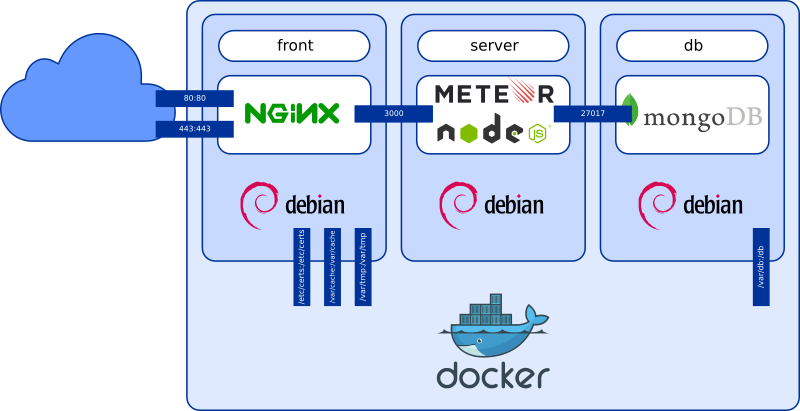
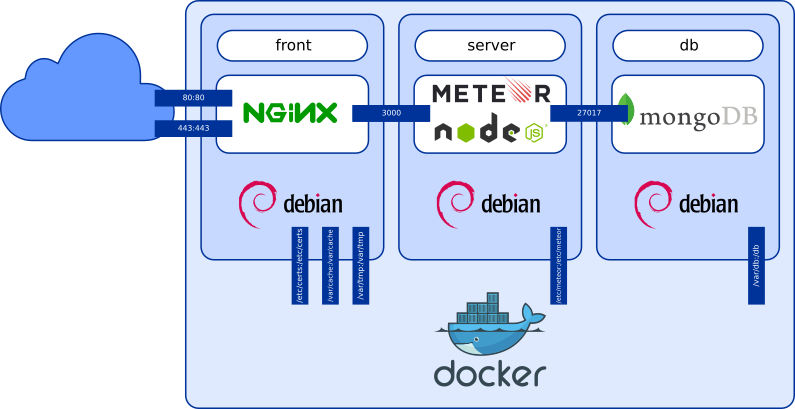
Docker architecture

diff --git a/README.md b/README.md
@@ -31,11 +31,11 @@ the complete list of versions used in this tutorial:
 
 ![Software architecture](https://raw.githubusercontent.com/PEM--/devops-tuts/master/doc/software_architecture.png)
 
-> Why Debian Jessie instead of Debian Wheezie? Simple, a 30 MB of footprint.
-  Note that we could have set this tutorial on other even smaller Linux
-  distributions for our Docker Images, like Alpine Linux. But as time of
-  this writing, other smaller distributions do not offer the package required
-  for installing Meteor.
+> Why Debian Jessie instead of Debian Wheezie? Simple, a gain of 30MB of
+  footprint. Note that we could have set this tutorial on other even smaller
+  Linux distributions for our Docker Images, like Alpine Linux. But as time of
+  this writing, these smaller distributions do not offer the package required
+  for installing Meteor (namely, MongoDB and node-fibers).
 
 ### Installing the tooling
 If you have never done it before install Homebrew and its plugin Caskroom.
@@ -105,7 +105,7 @@ end
 > I've provided 2 network configurations here. The first one is a private network
   leading to 2 virtual machines that are not accessible to your local network (
   only your local OSX). The second bridges your local OSX network driver so that
-  your container gains public access within your LAN. Note that for both of these
+  your VMs gain public access within your LAN. Note that for both of these
   network configurations, I've used static IPs.
 
 Before creating our virtual machine, we need to setup a `provisioning.sh`:
@@ -135,9 +135,9 @@ Now, we are starting our virtual hosts and declare it as a Docker Machine:
 vagrant up --no-provision
 ```
 
-Throughout this terminal, we need some environment variables, we store them
-in a `local_env.sh` file that we fill step by step and source each time we
-open a new terminal session:
+Throughout this terminal sessions, we need some environment variables.
+We store them in a `local_env.sh` file that we fill step by step and source
+each time we open a new terminal session:
 ```sh
 export HOST_IP_DEV='192.168.1.50'
 export HOST_IP_PRE='192.168.1.51'
@@ -533,9 +533,43 @@ COPY startMeteor.sh /app/startMeteor.sh
 CMD ["./startMeteor.sh"]
 ```
 
-@TODO
+Before building this Docker image, we need to prepare the
+volume on each host that receives its `settings.json` used for storing your
+secrets in Meteor:
+```sh
+ssh root@$HOST_IP_DEV "mkdir /etc/meteor"
+ssh root@$HOST_IP_PRE "mkdir /etc/meteor"
+ssh root@$HOST_IP_PROD "mkdir /etc/meteor"
+```
 
-- Settings without importing them
+Now copy your `settings.json` files on each hosts using a regular SCP. Mine
+are slightly different depending on the target where I deploy my Meteor apps.
+```sh
+# Just an exammple, adapt it to suit your needs
+scp ../app/development.json root@$HOST_IP_DEV:/etc/meteor
+scp ../app/development.json root@$HOST_IP_DEV:/etc/meteor
+scp ../app/production.json root@$HOST_IP_DEV:/etc/meteor
+```
+
+> Note that we do not include our secrets, nor in our code repository by
+  using a `.gitgignore` file, nor in our Docker Images.
+
+As you can see it in this `docker/meteor/Dockerfile`, we still need some
+
+
+For building and launching, we are extending our `docker-compose.yml` file:
+```yml
+# Application server: NodeJS (Meteor)
+server:
+  build: meteor
+  environment:
+    MONGO_URL: "mongodb://db:27017"
+    MONGO_OPLOG_URL: "mongodb://db:27017/local"
+    PORT: 3000
+    ROOT_URL: "https://192.168.1.50"
+  expose:
+    - "3000"
+```
 
 
 
